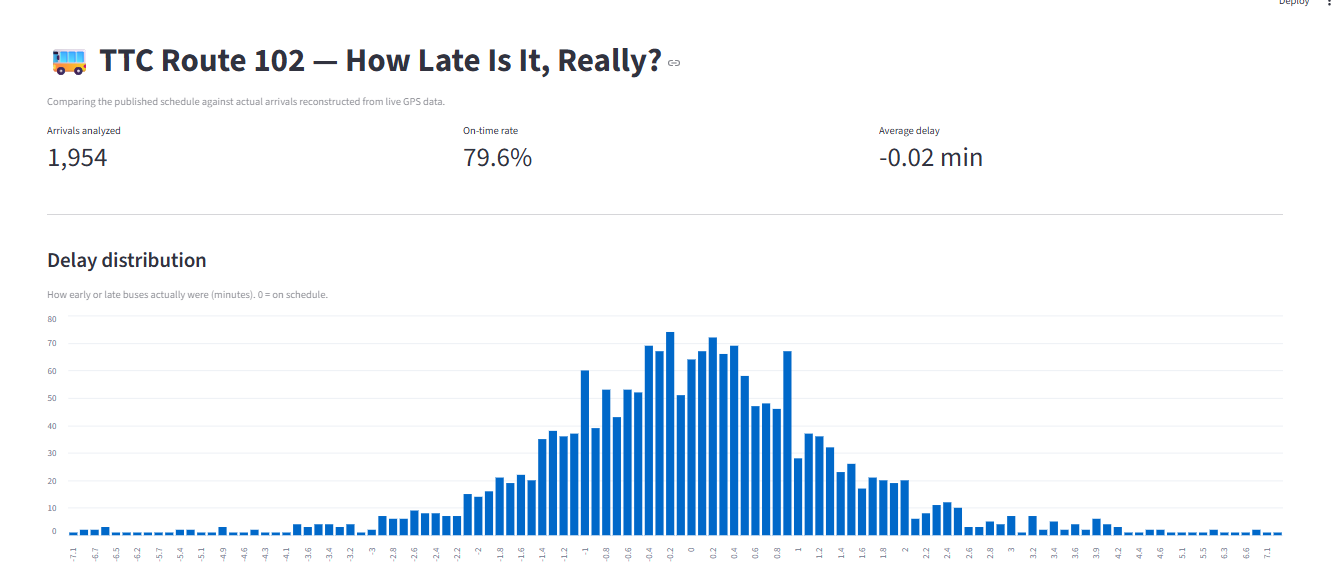
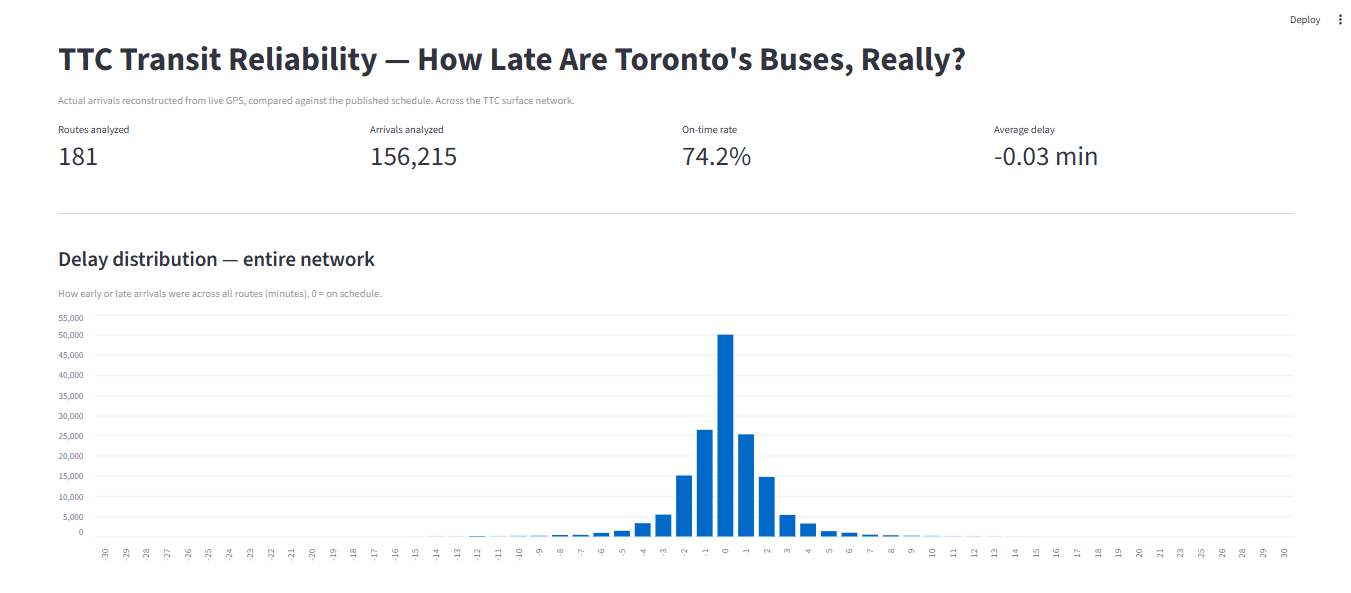
Scale pipeline city-wide: all 181 routes, parameterized route, query optimization, network dashboard

diff --git a/dashboard.py b/dashboard.py
@@ -2,47 +2,83 @@ import streamlit as st
 import duckdb
 import pandas as pd
 
-st.set_page_config(page_title="TTC Route 102 Reliability", layout="wide")
+st.set_page_config(page_title="TTC Transit Reliability", layout="wide")
 
-# ---- load data from the warehouse ----
 @st.cache_data
 def load_data():
     con = duckdb.connect("ttc.duckdb", read_only=True)
-    reliability = con.sql("SELECT * FROM main.fct_route_reliability").df()
-    performance = con.sql("SELECT * FROM main.fct_stop_performance").df()
+    perf = con.sql("SELECT * FROM main.fct_stop_performance").df()
+    rel = con.sql("SELECT * FROM main.fct_route_reliability").df()
     con.close()
-    return reliability, performance
+    return perf, rel
 
-reliability, performance = load_data()
+perf, rel = load_data()
 
-# ---- header ----
-st.title("🚌 TTC Route 102 — How Late Is It, Really?")
-st.caption("Comparing the published schedule against actual arrivals reconstructed from live GPS data.")
+st.title("TTC Transit Reliability — How Late Are Toronto's Buses, Really?")
+st.caption("Actual arrivals reconstructed from live GPS, compared against the published schedule. Across the TTC surface network.")
 
-# ---- headline metrics ----
-total_arrivals = len(performance)
-on_time_pct = round(100 * (performance['delay_minutes'].between(-1, 5)).sum() / total_arrivals, 1)
-avg_delay = round(performance['delay_minutes'].mean(), 2)
+# ---- 1. CITY-WIDE HEADLINE ----
+total = len(perf)
+routes = perf['route_id'].nunique()
+on_time = round(100 * perf['delay_minutes'].between(-1, 5).sum() / total, 1)
+avg_delay = round(perf['delay_minutes'].mean(), 2)
 
-col1, col2, col3 = st.columns(3)
-col1.metric("Arrivals analyzed", f"{total_arrivals:,}")
-col2.metric("On-time rate", f"{on_time_pct}%")
-col3.metric("Average delay", f"{avg_delay} min")
-
-st.divider()
-
-# ---- delay distribution ----
-st.subheader("Delay distribution")
-st.caption("How early or late buses actually were (minutes). 0 = on schedule.")
-hist = performance['delay_minutes'].value_counts().sort_index()
-st.bar_chart(hist)
+c1, c2, c3, c4 = st.columns(4)
+c1.metric("Routes analyzed", f"{routes}")
+c2.metric("Arrivals analyzed", f"{total:,}")
+c3.metric("On-time rate", f"{on_time}%")
+c4.metric("Average delay", f"{avg_delay} min")
 
 st.divider()
 
-# ---- worst stops ----
-st.subheader("Least reliable stops")
-worst = (reliability[reliability['total_arrivals'] >= 3]
-         .sort_values('on_time_pct')
-         .head(10)
-         [['stop_name', 'direction_id', 'total_arrivals', 'avg_delay_min', 'on_time_pct']])
-st.dataframe(worst, use_container_width=True, hide_index=True)
+# ---- 2. CITY-WIDE BELL CURVE ----
+st.subheader("Delay distribution — entire network")
+st.caption("How early or late arrivals were across all routes (minutes). 0 = on schedule.")
+city_hist = perf['delay_minutes'].round().value_counts().sort_index()
+st.bar_chart(city_hist)
+
+st.divider()
+
+# ---- 3. EXPLORE A ROUTE ----
+st.subheader("Explore a route")
+route_list = sorted(perf['route_id'].unique(), key=lambda x: (len(x), x))
+selected = st.selectbox("Pick a route", route_list, index=route_list.index('102') if '102' in route_list else 0)
+
+route_perf = perf[perf['route_id'] == selected]
+r_total = len(route_perf)
+r_on_time = round(100 * route_perf['delay_minutes'].between(-1, 5).sum() / r_total, 1) if r_total else 0
+r_avg = round(route_perf['delay_minutes'].mean(), 2) if r_total else 0
+
+rc1, rc2, rc3 = st.columns(3)
+rc1.metric(f"Route {selected} arrivals", f"{r_total:,}")
+rc2.metric("On-time rate", f"{r_on_time}%")
+rc3.metric("Average delay", f"{r_avg} min")
+
+st.caption(f"Delay distribution for route {selected} (minutes). 0 = on schedule.")
+route_hist = route_perf['delay_minutes'].value_counts().sort_index()
+st.bar_chart(route_hist)
+
+st.caption(f"Least reliable stops on route {selected} (min. 3 arrivals)")
+route_rel = rel[rel['route_id'] == selected]
+worst_stops = (route_rel[route_rel['total_arrivals'] >= 3]
+               .sort_values('on_time_pct')
+               .head(10)[['stop_name', 'direction_id', 'total_arrivals', 'avg_delay_min', 'on_time_pct']])
+if len(worst_stops):
+    st.dataframe(worst_stops, use_container_width=True, hide_index=True)
+else:
+    st.info("Not enough per-stop data for this route yet.")
+
+st.divider()
+
+# ---- 4. LEAST RELIABLE ROUTES (city-wide) ----
+st.subheader("Least reliable routes")
+st.caption("Routes with at least 100 arrivals, ranked by on-time %.")
+route_summary = (perf.groupby('route_id')
+                 .agg(arrivals=('delay_minutes', 'size'),
+                      avg_delay_min=('delay_minutes', 'mean'),
+                      on_time_pct=('delay_minutes', lambda x: round(100 * x.between(-1, 5).sum() / len(x), 1)))
+                 .reset_index())
+route_summary['avg_delay_min'] = route_summary['avg_delay_min'].round(2)
+worst_routes = route_summary[route_summary['arrivals'] >= 100].sort_values('on_time_pct').head(15)
+worst_routes.columns = ['Route', 'Arrivals', 'Avg delay (min)', 'On-time %']
+st.dataframe(worst_routes, use_container_width=True, hide_index=True)